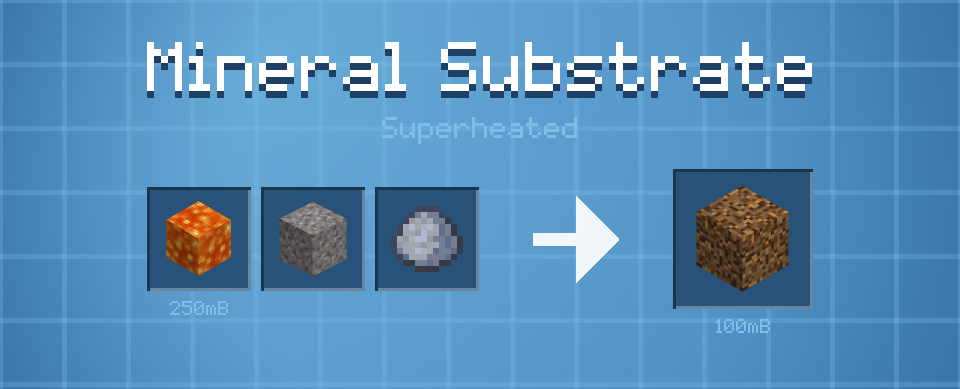
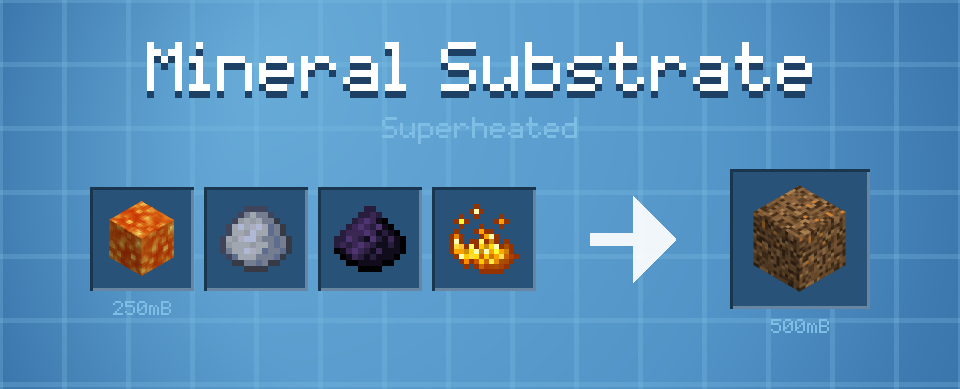
Charge the substrate against three farms instead of one
The recipe was 250mB of lava, gravel and a clay ball for 100mB out, which
is one craft per block printed and looks like three ingredients. It is
not: Create washes cobblestone into gravel, gravel into sand and sand
into clay, so gravel and clay are the same farm at two points along it,
and the whole recipe reduced to about five cobblestone and a bucket of
lava. A cobblestone generator and a Blaze Burner is not a late-game
price.

Gravel is dropped and two ingredients take its place -- powdered obsidian
and blaze powder -- so the solids are three farms that do not substitute
for each other: washing sand off a cobblestone chain, casting and
crushing obsidian, and a fortress spawner. Each is infinite and each runs
unattended once built, which is the shape that was wanted: not a grind,
but enough separate infrastructure that the thing is a project.

Output goes to 500mB, five blocks at the default cost. The price per
block is roughly what it was; what changed is what has to exist before
any of it runs, and a craft that yields one block makes a mixer's cycle
the bottleneck rather than the farms feeding it.

The dust is taken by tag rather than by item, the way Create's own
recipes take it, so another mod's obsidian dust works.

Blaze powder is already implied by the superheated requirement -- blaze
cake needs it -- so it costs no new farm, only a bigger one. That is
deliberate. Requiring a fourth unrelated one was considered and dropped:
[…]

Changed region(s): [[0.0938, 0.4319, 0.9062, 0.8638]]

diff --git a/tools/generate_page_art.py b/tools/generate_page_art.py
@@ -25,7 +25,7 @@ What comes out:
                         needing to know either type by name.
 
 The recipe sheets are mostly other people's art -- the presses and casings are Create's, the
-gravel and the Nether Star are Mojang's -- and none of it is copied into this repo. Their models
+clay and the Nether Star are Mojang's -- and none of it is copied into this repo. Their models
 are resolved through their own parent chains and their textures read out of the jars Gradle has
 already cached, at the moment the picture is drawn, so what is kept here is a finished image and
 not somebody else's texture. That needs a build to have run once; the banner does not.
@@ -105,6 +105,9 @@ SUBJECTS = [
 # these", and naming them here keeps the choice in one place rather than in a layout.
 TAG_STAND_INS = {
     'minecraft:planks': 'minecraft:oak_planks',
+    # Create's own is the only item in this tag, so the stand-in is not a stand-in for
+    # anything -- the recipe is written against the tag so another mod's dust works too.
+    'c:dusts/obsidian': 'create:powdered_obsidian',
 }
 
 

diff --git a/README.md b/README.md
@@ -65,10 +65,17 @@ still stops growing its history.
 eight Brass Casings, four Electron Tubes, four Precision Mechanisms, four Mechanical Pumps and a
 Nether Star.
 
-**Mineral Substrate** — mixed superheated: 250mB of lava, gravel and a clay ball in a Basin under a
-Mechanical Mixer with a Blaze Burner on blaze cake, for 100mB out. At the default cost that is one
-craft per block printed, which is where the machine's price actually lives — not in its stress, which
-is a Deployer's 4 SU/RPM and is charged only when it is standing still.
+**Mineral Substrate** — mixed superheated: 250mB of lava, a clay ball, powdered obsidian and blaze
+powder in a Basin under a Mechanical Mixer with a Blaze Burner on blaze cake, for 500mB out. At the
+default cost that is five blocks printed per craft, and it is where the machine's price actually
+lives — not in its stress, which is a Deployer's 4 SU/RPM and is charged only when it stands still.
+
+The three solid ingredients are three separate farms on purpose, none of which substitutes for
+another: washing sand off a cobblestone chain for the clay, casting and crushing obsidian for the
+dust, and a fortress spawner for the powder. Each is infinite and each runs unattended, which is the
+point — the Extruder is a deliberately inefficient way to make the few blocks this game gives you no
+other renewable source for. Roughly sixteen hundred blocks printed per diamond, nineteen hundred per
+ancient debris. Nothing you would use to farm iron, and the only thing that farms netherite.
 
 ## Configuration
 

diff --git a/CHANGELOG.md b/CHANGELOG.md
@@ -9,8 +9,8 @@ First release.
   throwaway chunks, up to `ChunkStatus.FEATURES` — terrain, surface rules, carvers and features —
   and reads the answer out. Caves and ravines are real, ore appears at its own rarity in its own
   depth band, and ore from other mods works without this mod knowing they exist.
-- **Mineral Substrate** — the heavy fluid the Extruder burns, mixed superheated from lava, gravel
-  and clay.
+- **Mineral Substrate** — the heavy fluid the Extruder burns, mixed superheated from lava, clay,
+  powdered obsidian and blaze powder. Three separate farms, all infinite and all unattended.
 - **Standing still.** Fed rotation and substrate, an Extruder works from a *core sample*: every
   printable block at its own altitude across a 48x48 footprint of virtual world, shuffled, one spent
   per cycle. The next sample is cut on a worker thread before the current one runs out, so the server

diff --git a/branding/curseforge.md b/branding/curseforge.md
@@ -54,7 +54,7 @@ cave-shaped, and ore from other mods works without any setup.
 
 <!-- IMAGE: recipe-terraform-extruder.png -- replace with the gallery URL -->
 
-**Mineral Substrate.** Superheated mixing in a Basin. 100mB is one block placed.
+**Mineral Substrate.** Superheated mixing in a Basin. 500mB is five blocks placed.
 
 <!-- IMAGE: recipe-mineral-substrate.png -- replace with the gallery URL -->
 
